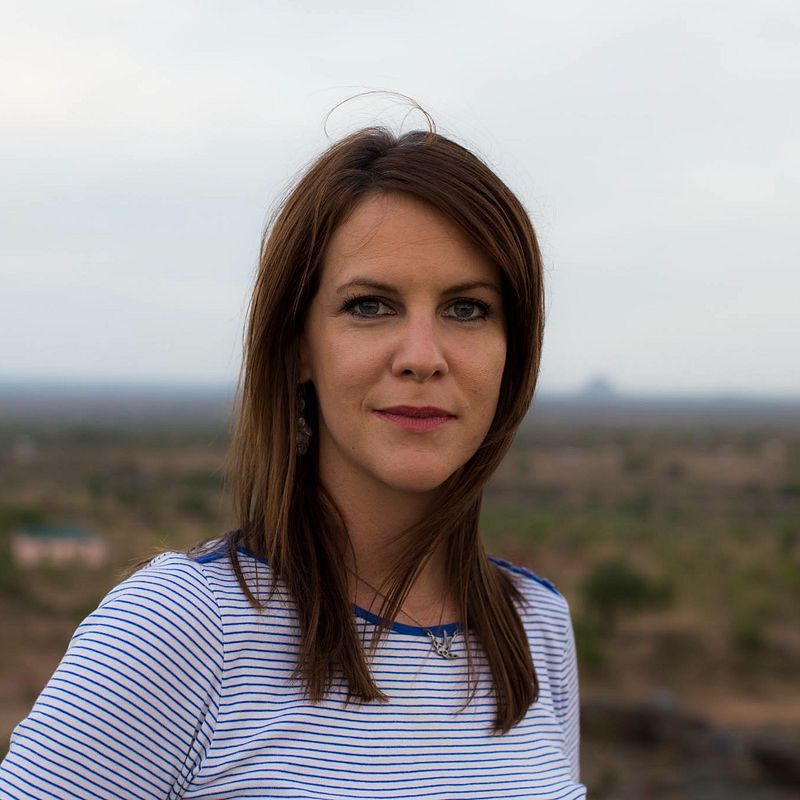
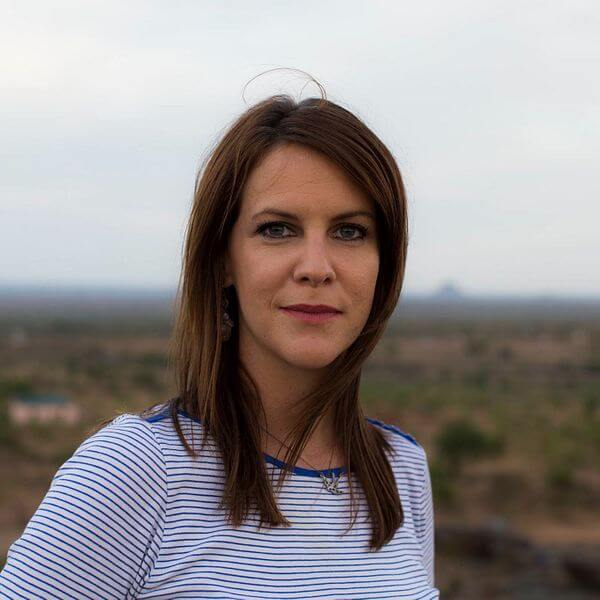
add: add resized profile image and biography text to index.html

diff --git a/index.html b/index.html
@@ -4,7 +4,7 @@
 <head>
     <meta charset="UTF-8">
     <meta name="viewport" content="width=device-width, initial-scale=1.0">
-    <meta name="description" content="This site the work undertaken by Hannah McNeish">
+    <meta name="description" content="This site presents the work undertaken by Hannah McNeish">
     <meta name="keywords"
         content="investigative journalism, public health, ethical health reporting, human rights, photography">
     <meta name="author" content="Hannah McNeish">
@@ -61,10 +61,18 @@
 
         </section>
 
-        <section class="row">
-            <div id="bio-row-background"></div>
-
-
+        <section class="row justify-content-center profile-row">
+            <div class="col-lg-6 col-sm-12 g-0">
+                <div class="text-center">
+                    <img src="assets/images/hannah-mcneish-profile.jpg" class="img-fluid" alt="Profile picture of Hannah McNeish">
+                </div>
+            </div>
+            <div class="col-lg-4 col-sm-12 g-0">
+                <div class="biography-text">
+                    <h2>Biography</h2>
+                    <p>Hannah McNeish is a multi-lingual and mutlimedia journalist, previously based in East Africa but travelled across the continent in search of stories. She is most passionate about rights and conflict, and these topics have been the crux of her reporting since she started working in radio, papers and magazines in Chile in 2009, and graduated to the U.K then Africa in 2010. She relocated to Glasgow in 2016, much to the disappointment of some governments and large organisations, and still has many more corners to explore and try to shine a light on. She has written, filmed and photographed for the main wire agencies, British and American newspapers, magazines, a range of NGOs and the UN, and major broadcasters such as the BBC and Al Jazeera.</p>
+                </div>
+            </div>
         </section>
         <footer>
             <div id="footer-spacing" class="row">

diff --git a/assets/css/style.css b/assets/css/style.css
@@ -54,11 +54,6 @@ div h3{
     text-align: right;
 }
 
-.button-border{
-    border-color: transparent;
-}
-
-
 .menu-item{
     color: #040404;
     letter-spacing: 3px;
@@ -66,7 +61,7 @@ div h3{
     margin-right: 20px;
     padding-bottom: 15px;
     text-transform: uppercase;
-    line-height: 1;
+    line-height: 0.75;
     
 }
 
@@ -153,19 +148,17 @@ h2{
    padding-right: 25px;
 }
 
-/*---------------bio section---------------*/
+/*---------------profile section---------------*/
 
-#bio-row-background{
-    height: 350px;
-    width: 100%;
+.profile-row{
+    height: auto;
     background-color: rgb(239, 239, 239)
-   
-
 }
 
-.profile-image{
-    object-fit: contain;
+.biography-text{
+    margin: 50px;
 }
+
 
 /*---------------footer---------------*/
 /*---------------credit to ci walkthrough for footer styling---------------*/
@@ -173,10 +166,8 @@ h2{
 
 footer{
     background-color: rgba(32, 28, 28, 0.315);
-    background-size: cover;
     min-height: 100px;
     text-align: center;
-    width: 100%;
 }
 
 .footer-row{
